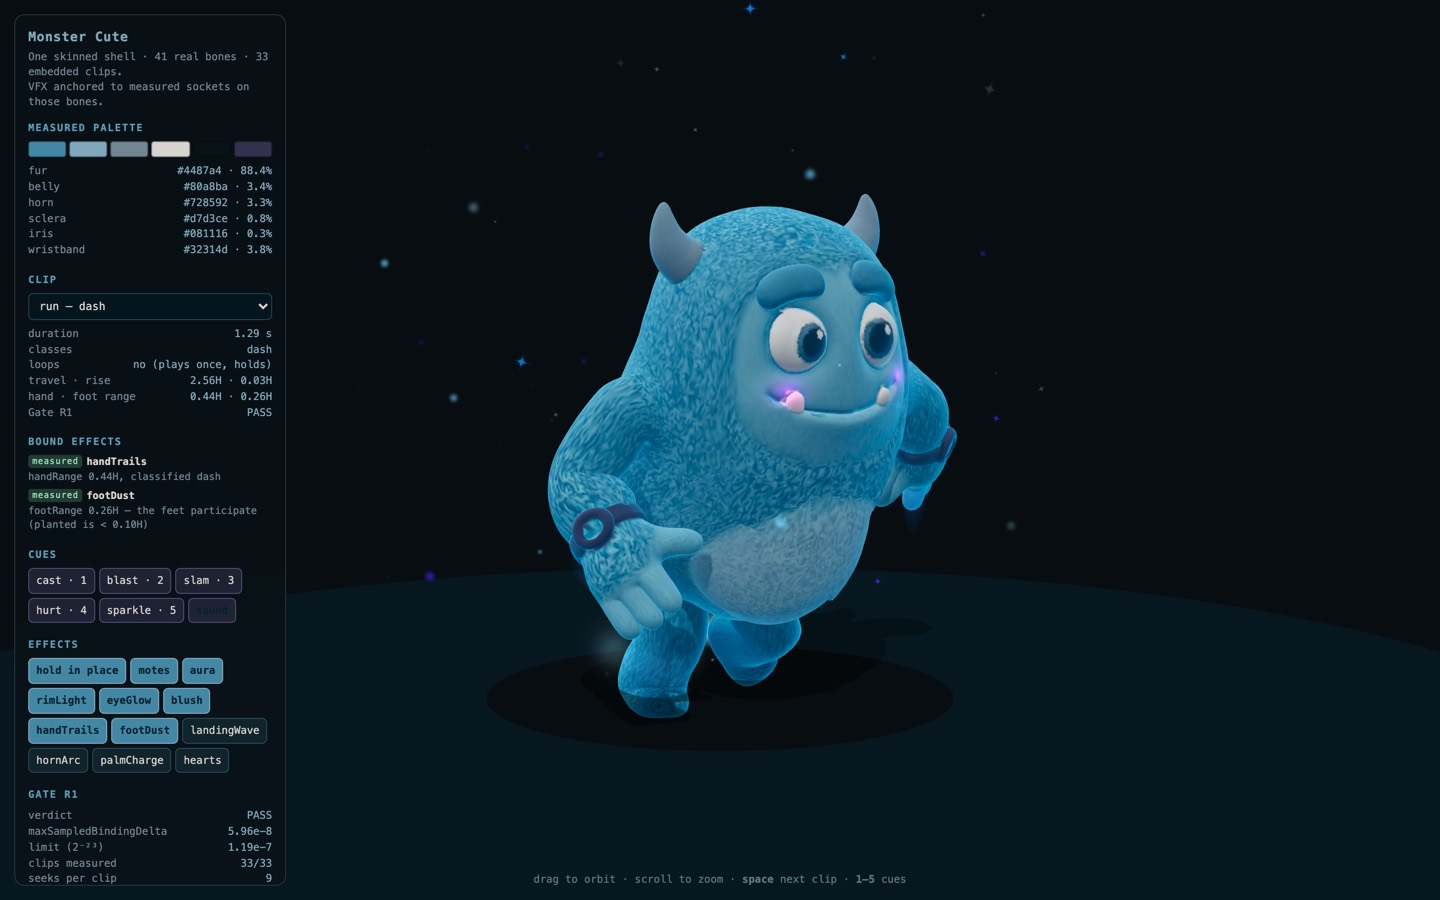
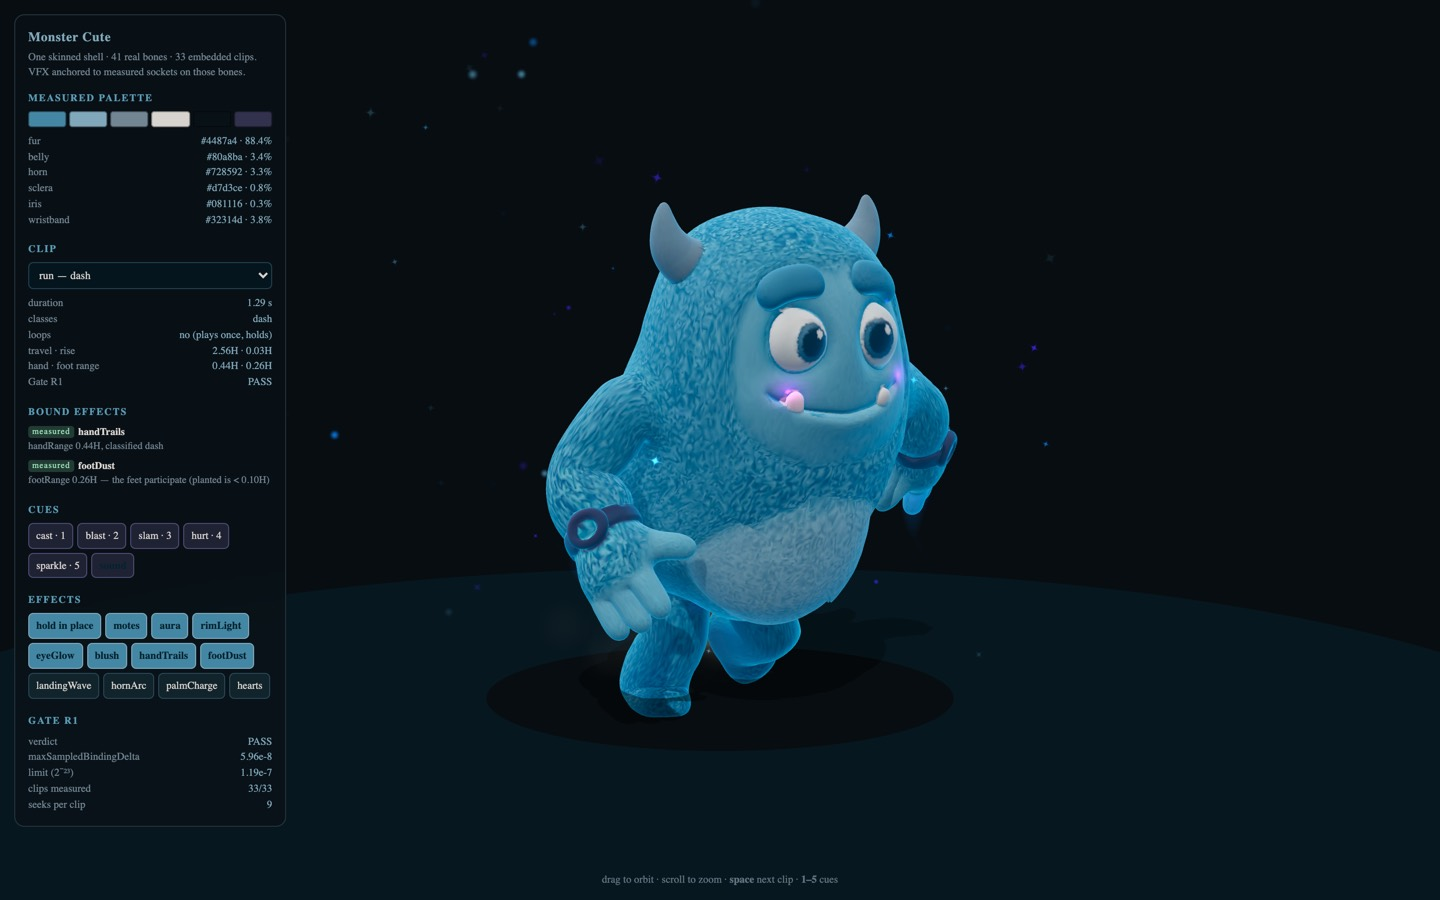
fix(monster-cute): the foot effect is dust now, not ripples
Dirt was being drawn as light — additive blending, a colour taken from the character, and almost no
drag — so a footfall read as rings spreading on water. The particle field gained a glow flag so dust
renders as plain alpha; its colour is the measured key light at a dust albedo; and it now leaves
fast, stops hard and stays denser at the impact than at the rim. Landings throw two overlapping
clouds and no glowing ring; the ring survives only on the slam cue.

diff --git a/src/demos/monster-cute/vfx/index.ts b/src/demos/monster-cute/vfx/index.ts
@@ -23,7 +23,7 @@
  */
 import * as THREE from 'three';
 import type { RiggedModel } from '../meshCodec';
-import { ACCENT, CLIP_PROFILES, FIGURE_HEIGHT, FRAME, PALETTE, SOCKETS } from '../characterProfile';
+import { ACCENT, CLIP_PROFILES, FIGURE_HEIGHT, FRAME, GROUND_DUST, PALETTE, SOCKETS } from '../characterProfile';
 import { ParticleField } from './particles';
 import { Ribbon } from './ribbon';
 import { Beam, ChargeOrb, Hearts, HornArc, Shockwaves } from './shapes';
@@ -117,7 +117,7 @@ export function createMonsterCuteVfx(rigged: RiggedModel): MonsterCuteVfx {
   // ---------------------------------------------------------------- emitters
 
   const sparks = new ParticleField(1400);
-  const dust = new ParticleField(900);
+  const dust = new ParticleField(1600, false);   // false = alpha-blended matter, not additive light
   const motes = new ParticleField(320);
   group.add(sparks.points, dust.points, motes.points);
   // `onBeforeRender` only fires on something that is actually drawn, so it hangs off the mote
@@ -164,7 +164,7 @@ export function createMonsterCuteVfx(rigged: RiggedModel): MonsterCuteVfx {
    * varies across the subject's own palette reads as air with something in it, without introducing
    * a hue the monster does not wear.
    */
-  const MOTE_COLOURS = [ACCENT.mote, PALETTE.belly, ACCENT.energy, ACCENT.dust, ACCENT.impact];
+  const MOTE_COLOURS = [ACCENT.mote, PALETTE.belly, ACCENT.energy, PALETTE.furLight, ACCENT.impact];
   group.add(shockwaves.group, hornArc.group, orbs.l.group, orbs.r.group, beam.group, hearts.group, eyeGlow.group);
 
 
@@ -274,21 +274,53 @@ export function createMonsterCuteVfx(rigged: RiggedModel): MonsterCuteVfx {
     }
   }
 
-  function ringPuff(at: THREE.Vector3, count: number, speed: number, colour: THREE.Color, size: number, life: number): void {
+  /**
+   * A cloud of dust thrown off the floor.
+   *
+   * Rebuilt to behave like dirt rather than like an expanding ring of light. Four things do that,
+   * and all four matter:
+   *
+   *   - it goes out LOW and fast, then stops hard. Real dust loses its speed almost immediately —
+   *     a drag of 0.88/s against the old 0.06 is the difference between a puff and a shockwave;
+   *   - it SWELLS as it slows, though only to about 2.7x. Pushed further it stops being a puff and
+   *     becomes fog, which is what the first attempt did;
+   *   - it is DENSER at the impact than at the rim, because it was thrown from a point;
+   *   - it is thrown at a shallow angle with a spread, not on a flat circle. A perfect ring is the
+   *     tell that says "effect";
+   *   - it drifts up only slightly and lingers, because settling dust is the part the eye reads as
+   *     weight.
+   */
+  function dustPuff(at: THREE.Vector3, count: number, speed: number, size: number, life: number): void {
     for (let i = 0; i < count; i += 1) {
-      const a = (i / count) * Math.PI * 2 + Math.random() * 0.4;
-      const s = speed * (0.5 + Math.random() * 0.7);
+      // Jittered around the circle rather than evenly spaced, so no ring artefact forms.
+      const a = (i / count) * Math.PI * 2 + (Math.random() - 0.5) * 1.4;
+      /**
+       * Biased toward the impact.
+       *
+       * `random()` squared puts most particles near the foot and only a few out at the rim, which
+       * is how a real puff is distributed. Spreading them evenly over the radius — the first
+       * version — produces a uniform disc of haze: a smear on the floor rather than something
+       * that was thrown from a point.
+       */
+      const reach = Math.random() ** 2;
+      const s = speed * (0.25 + reach * 0.95);
+      // Mostly outward, curling up. The few that go up hardest are what give the cloud a top.
+      const rise = 0.15 + Math.random() * Math.random() * 0.9;
       dust.spawn({
-        position: scratch.set(at.x, Math.max(at.y, 0.01), at.z),
-        velocity: scratchB.set(Math.cos(a) * s, Math.random() * s * 0.5, Math.sin(a) * s),
-        colour,
-        size: size * (0.7 + Math.random() * 0.9),
-        life: life * (0.7 + Math.random() * 0.6),
-        drag: 0.06,
-        gravity: 0.08 * H,      // dust drifts up as it thins out
-        growth: 2.6,
-        alpha: 0.8,
-        shape: 0,   // grit, not glitter
+        position: scratch.set(
+          at.x + Math.cos(a) * 0.025 * H * Math.random(),
+          Math.max(at.y, 0.004) + Math.random() * 0.02 * H,
+          at.z + Math.sin(a) * 0.025 * H * Math.random(),
+        ),
+        velocity: scratchB.set(Math.cos(a) * s, s * rise, Math.sin(a) * s),
+        colour: GROUND_DUST,
+        size: size * (0.55 + Math.random() * 1.0),
+        life: life * (0.65 + Math.random() * 0.75),
+        drag: 0.88,             // stops fast, the way air stops dust
+        gravity: 0.01 * H,      // barely buoyant; it hangs rather than climbs
+        growth: 2.7,            // diffuses, but still reads as a puff rather than fog
+        alpha: 0.2 + Math.random() * 0.22,
+        shape: 0,               // grit, never glitter
       });
     }
   }
@@ -325,9 +357,10 @@ export function createMonsterCuteVfx(rigged: RiggedModel): MonsterCuteVfx {
         sfx.play('slam');
         const foot = world.get('effect:foot.l') ?? world.get('effect:foot.r');
         if (!foot) break;
+        // The one place a glowing ring is still right: `slam` is a cast skill, not a footstep, so
+        // it is allowed to be energy. It gets a real dust cloud underneath it as well.
         shockwaves.fire(foot, 0.75 * H, 0.75, ACCENT.energy);
-        shockwaves.fire(foot, 0.42 * H, 0.55, ACCENT.core);
-        ringPuff(foot, 26, 0.9 * H, ACCENT.dust, 0.05 * H, 0.85);
+        dustPuff(foot, 42, 0.9 * H, 0.1 * H, 1.1);
         burst(foot, 22, 0.8 * H, ACCENT.energy, 0.025 * H, 0.5);
         break;
       }
@@ -499,14 +532,20 @@ export function createMonsterCuteVfx(rigged: RiggedModel): MonsterCuteVfx {
         // How hard the landing was, read from the hip's fall speed at the moment of contact.
         const force = THREE.MathUtils.clamp(-hipVy / (0.8 * H), 0, 1);
         if (enabled.footDust) {
-          ringPuff(p, 9 + Math.round(force * 16), (0.28 + force * 0.7) * H, ACCENT.dust, 0.055 * H, 0.6);
-          // A few twinkles with the dust: grit alone is drab on a character like this.
-          burst(p, 3 + Math.round(force * 5), 0.35 * H, ACCENT.mote, 0.02 * H, 0.45, motes, 1);
+          dustPuff(p, 12 + Math.round(force * 16), (0.20 + force * 0.45) * H, 0.07 * H, 0.6);
+          // A couple of glinting motes catch the light above the cloud. Kept sparse: the dust is
+          // the effect, and burying it in sparkles is what made it read as magic before.
+          burst(p, 1 + Math.round(force * 3), 0.3 * H, ACCENT.mote, 0.016 * H, 0.4, motes, 1);
         }
         sfx.play(force > 0.4 ? 'land' : 'step', force > 0.4 ? force : 1 - force * 0.6);
         if (enabled.landingWave && force > 0.28) {
-          shockwaves.fire(p, (0.35 + force * 0.55) * H, 0.6, ACCENT.energy);
-          burst(p, Math.round(8 + force * 20), (0.4 + force * 0.6) * H, ACCENT.energy, 0.02 * H, 0.4);
+          // A harder, wider, longer-lived cloud — no glowing ring. The bright expanding rings that
+          // used to fire here are what read as ripples on water: a landing displaces dirt, it does
+          // not emit light.
+          dustPuff(p, 24 + Math.round(force * 30), (0.45 + force * 0.75) * H, 0.09 * H, 0.9);
+          // A second, slower wave just behind the first, so the cloud has depth rather than being
+          // one shell expanding at a single speed.
+          dustPuff(p, 12, (0.16 + force * 0.3) * H, 0.13 * H, 1.3);
         }
       } else if (!nearGround) {
         state.down = false;

diff --git a/src/demos/monster-cute/vfx/particles.ts b/src/demos/monster-cute/vfx/particles.ts
@@ -69,6 +69,7 @@ export const TWINKLE_GLSL = /* glsl */ `
 `;
 
 const FRAGMENT = /* glsl */ `
+  uniform float uGlow;
   varying vec3 vColor;
   varying float vAlpha;
   varying float vShape;
@@ -80,7 +81,11 @@ const FRAGMENT = /* glsl */ `
     // Spun per particle so a field of them shimmers instead of all pointing the same way.
     float a = twinkleShape(gl_PointCoord, vSpin, vShape);
     if (a <= 0.002) discard;
-    gl_FragColor = vec4(vColor * (0.6 + 0.9 * a), a * vAlpha);
+    // Glowing fields brighten toward their centre, which is how light behaves. Dust does not: it
+    // OCCLUDES. Boosting a dust particle's colour the same way is what made kicked-up dirt read as
+    // a ring of light on the floor.
+    vec3 rgb = mix(vColor, vColor * (0.6 + 0.9 * a), uGlow);
+    gl_FragColor = vec4(rgb, a * vAlpha);
   }
 `;
 
@@ -130,7 +135,14 @@ export class ParticleField {
 
   private readonly material: THREE.ShaderMaterial;
 
-  constructor(capacity: number, blending: THREE.Blending = THREE.AdditiveBlending) {
+  /**
+   * `glow` picks the whole character of the field.
+   *
+   * `true` is light — additive, brightening toward the centre, for sparks and motes. `false` is
+   * matter — alpha-blended and flat, for dust. Dust is the one thing here that is not made of
+   * light, and drawing it additively is what made a footfall look like a ripple on water.
+   */
+  constructor(capacity: number, glow = true) {
     this.capacity = capacity;
     this.position = new Float32Array(capacity * 3);
     this.colour = new Float32Array(capacity * 3);
@@ -163,9 +175,9 @@ export class ParticleField {
     this.material = new THREE.ShaderMaterial({
       vertexShader: VERTEX,
       fragmentShader: FRAGMENT,
-      uniforms: { uPixelScale: { value: 600 } },
+      uniforms: { uPixelScale: { value: 600 }, uGlow: { value: glow ? 1 : 0 } },
       transparent: true,
-      blending,
+      blending: glow ? THREE.AdditiveBlending : THREE.NormalBlending,
       depthWrite: false,
       depthTest: true,
     });

diff --git a/src/demos/monster-cute/characterProfile.ts b/src/demos/monster-cute/characterProfile.ts
@@ -80,7 +80,7 @@ export const ACCENT = {
   core: shift(regionHex('fur', '#4487a4'), 0, -0.15, +0.42),
   /** Belly pale blue, lifted — soft, cold, low-energy motes. */
   mote: shift(regionHex('belly', '#80a8ba'), 0, +0.15, +0.20),
-  /** Horn grey, warmed slightly — dust and grit come off the ground, not off the fur. */
+  /** Horn grey, warmed — used for glinting grit in the air, not for the dust cloud itself. */
   dust: shift(regionHex('horn', '#728592'), -12, -0.04, +0.16),
   /** Wristband violet, lifted into a readable impact colour. */
   impact: shift(regionHex('wristband', '#32314d'), +8, +0.45, +0.42),
@@ -96,6 +96,20 @@ export const ACCENT = {
    */
   blush: shift(regionHex('wristband', '#32314d'), +72, +0.46, +0.44),
 } as const;
+
+/**
+ * The dust kicked up off the floor.
+ *
+ * Not taken from the fur, and not picked at random either. Dust is not a light source and it has no
+ * colour of its own that matters — what you see is the KEY LIGHT reflected off it. So this is the
+ * measured key colour (the eye-white off-white the key is tinted with) knocked down to a plausible
+ * dust albedo. That is why it reads as neutral rather than as either blue fur or brown mud: it is
+ * the colour of this scene's light, dimmed.
+ *
+ * The first attempt used a warm grey chosen by hand, and against a cool-lit stage it read as an
+ * orange smear on the floor. Deriving it from the key instead fixes that by construction.
+ */
+export const GROUND_DUST = new THREE.Color(regionHex('sclera', '#d7d3ce')).multiplyScalar(0.66);
 
 export const PALETTE_PROVENANCE = paletteEvidence.regions.map((r) => ({
   id: r.id, hex: r.hex, share: r.share, rule: r.rule,
